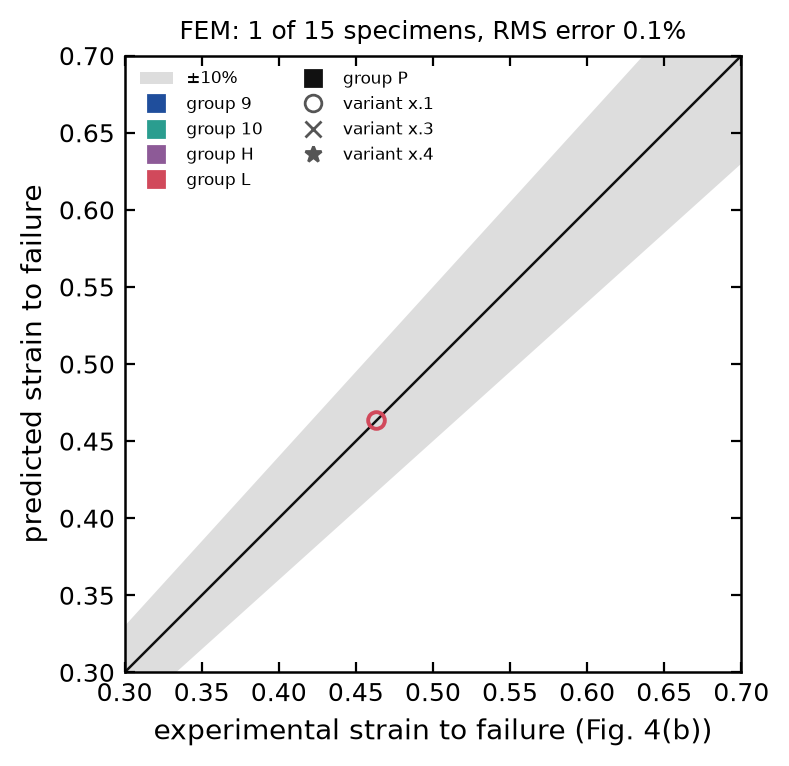
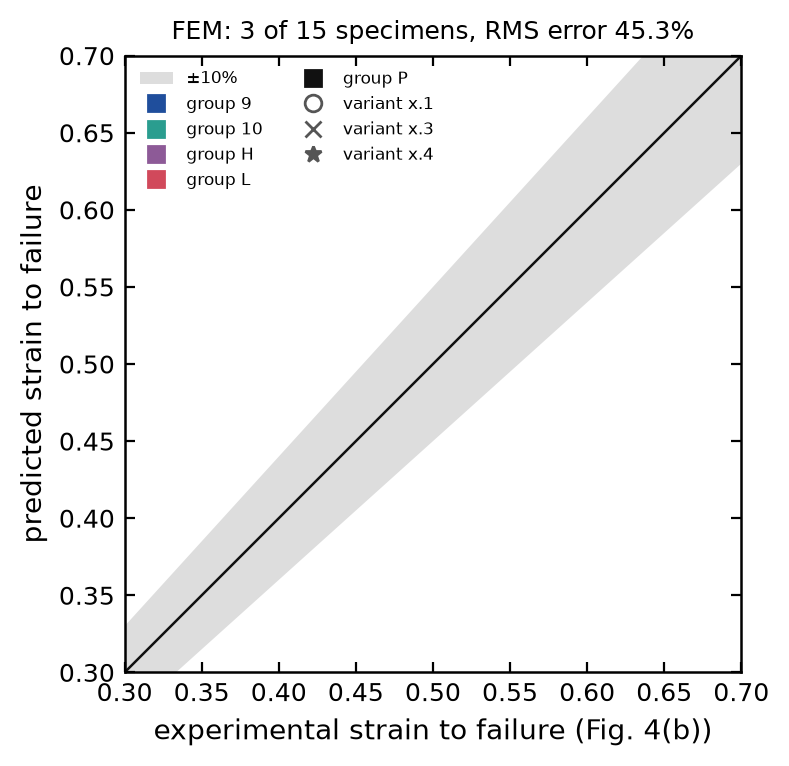
Ni last stage: group 10 FEM complete (0.771-0.779 vs 0.528-0.540; inclined cracks at 0.38-0.46); parity and location figures; notebook, ledger

Changed region(s): [[0.2129, 0.03, 0.8821, 0.0601], [0.4563, 0.5405, 0.4867, 0.5705]]

diff --git a/docs/run_ledger.md b/docs/run_ledger.md
@@ -101,7 +101,7 @@ and what it returned in one line.
 | ni-cal-h020-gn2-k1-cgroup | 2026-10-18 13:00-17:14 | `results/ni_study/cal_h020/gn2/k1_p/specimen.i` | `ni_specimen.py run`, `curve` (cgroup cap) | be71f84 / PINNACLE 9f31bb0 | rocm / 2 threads, 16 GB resident cap | 4.2 h | cutback budget spent at step 231 (43.0% gauge); BE fallback at step 234 -> 16 GB in 17 s -> oom-kill (exit -9). Curve to 43.0% kept (author); GN summary unchanged | k_m OAT curve | 12 §5.1 |
 | ni-mesh-L1-h020set | 2026-10-18 08:35 - 2026-10-19 04:14 (h010 curve end) | `decks/ni/cp/h020/mesh_L1.i` (h040, h010, h020z2; h020 = calibrated run) | `ni_study.py` | study / PINNACLE 9f31bb0 | rocm / 2 + 8 + 4 threads, address-space caps 16 / 24 / 16 GB | h040 done; h010 ~1 day | h040 finished. h020z2 VOID: hit the cap at step 36 in tangent assembly, every retry failed (kept in `h020z2/failed_ascap/`). h010 curve to 47.1% gauge (budget spent at step 243, 23 h, 11 GB resident; process left running for its field snapshots). Results docs/12 §5.2 | docs/12 §5, §5.1 | 12 §5 |
 | ni-mesh-L1-h020z2-cgroup | 2026-10-18 13:00-21:17 | `results/ni_study/mesh_study/L1_h020set/h020z2/specimen.i` | `ni_specimen.py run`, `curve` (cgroup cap) | be71f84 / PINNACLE 9f31bb0 | rocm / 4 threads, 16 GB resident cap | 8.3 h | cutback budget spent at step 226 (44.0% gauge, 238 converged steps); BE fallback -> oom-kill (exit -9). Curve to 44.0% | two-layer h020 of the mesh study | 12 §5.1 |
-| ni-final-fem-15 | 2026-10-26 10:05 - (running; first launch 09:05 at the 30% path killed at 10:00) | `decks/ni/final/fem_15_h020.i` (base `fem_base_h020.i`: carried set, newton_tol 0.05 N, rel 1e-6, grip strain 40% in 400 steps; 15 specimens) | `ni_study.py prepare, run` -> `ni_specimen.py run` | 31431b4 / PINNACLE 9a706ae | rocm / 6 x 2 threads, 16 GB cap each | - | - | FEM route of the last stage (author's go-ahead 2026-10-26) | 12 §8 |
+| ni-final-fem-15 | 2026-10-26 10:05 - (running; group 10 done 2026-10-27: 10.1 0.779 / 24 h, 10.3 0.771 / 14.8 h, 10.4 0.773 / 31 h; first launch 09:05 at the 30% path killed at 10:00) | `decks/ni/final/fem_15_h020.i` (base `fem_base_h020.i`: carried set, newton_tol 0.05 N, rel 1e-6, grip strain 40% in 400 steps; 15 specimens) | `ni_study.py prepare, run` -> `ni_specimen.py run` | 31431b4 / PINNACLE 9a706ae | rocm / 6 x 2 threads, 16 GB cap each | - | - | FEM route of the last stage (author's go-ahead 2026-10-26) | 12 §8 |
 | ni-final-tol50-test | 2026-10-26 03:30-09:04 | `results/ni_study/final/tol50/s01/specimen.i` (S01 with newton_tol 5e-2 N, rel 1e-6) | `ni_specimen.py deck run curve fracture` | f218f2e / PINNACLE 9a706ae | rocm / 2 threads | 5.6 h | full path (300 steps) with 4 cutbacks, 5,886 Newton iterations; no failure by 60.2% gauge strain, max d 0 (soft orientation: 188 MPa at 60%, plastic work below W_c): 0.05 N adopted for every route; the path is too short for soft specimens | second tolerance test: 0.05 N (5e-4 of the reaction) against the Newton floor of S01 | 12 §8.1 |
 | ni-final-tol5-test | 2026-10-25 22:20 - 2026-10-26 09:00 (9.1 killed at load factor 0.58, 72 cutbacks; S01 ended 03:11) | `results/ni_study/final/tol5/{9.1,s01}/specimen.i` (the 9.1 and S01 decks with newton_tol 5e-3, newton_rel_tol 1e-6) | `ni_specimen.py deck run curve fracture` | 3d06ed9 / PINNACLE 9a706ae | rocm / 2 x 2 threads | S01 5.3 h | S01: ended at 37.7% (1e-3: 36.6%), max d 0, Newton floor 5e-3 to 2e-2 N after ten halvings (dt 2e-5 s); 9.1 at 5e-3: reactions identical to the 1e-3 run to 1e-7, 6 cutbacks by load factor 0.48 against 73 | Newton tolerance test: does 5e-3 clear the convergence floor of orientation 9 and the S01 stall, and change the curve? | 12 §8.1 |
 | ni-final-restart-exp | 2026-10-25 21:28-22:15 | `results/ni_study/final/fem/exp_9.1_tol{2e-3,5e-3}/pfd.i` (restart of 9.1 from step 160) | `pinnacle run` | PINNACLE 9a706ae | rocm / 2 x 2 threads | 47 min, killed | VOID: no step taken; point 797's backward-Euler update failed at the same residual on every evaluation after the restart (6.5 min per fallback) | restart trap, FINDINGS 2026-10-25 | 12 §8.1 |

diff --git a/docs/12_ni_study.md b/docs/12_ni_study.md
@@ -910,3 +910,16 @@ transfers to a late failure on the softer orientations. 10.1 (max d 0.90 at 0.76
 damage at 0.38-0.47. This is a result of the benchmark (the carried model's transfer across
 orientations), reported as such; the campaign continues unchanged.
 
+Group 10 complete (FEM; 2026-10-27 16:34):
+
+| specimen | failure (FEM) | experiment | error | location (FEM / exp) | flank | peak (MPa) at strain | wall | steps / Newton |
+|---|---|---|---|---|---|---|---|---|
+| 10.1 | 0.779 (separation) | 0.540 | +44% | 0.38 / 0.20 | 64 deg | 183.8 at 0.752 | 24.0 h | 351 / 9,595 |
+| 10.3 | 0.771 (separation) | 0.528 | +46% | 0.46 / 0.30 | 56 deg | 191.5 at 0.759 | 14.8 h | 343 / 7,502 |
+| 10.4 | 0.773 (separation) | 0.530 | +46% | 0.41 / 0.25 | 68 deg | 171.8 at 0.753 | 31.2 h | 331 / 11,059 |
+
+The three thickness variants fail within 0.008 of each other (the experiment: within 0.012), all
+44-46% late, with the crack 0.1-0.2 of the gage further along than the experiment's and inclined
+where the experiment necked. Group 9 (9.1 / 9.3 / 9.4 at load factor 0.49 / 0.49 / 0.41 after 32 h,
+150-200 cutbacks) and group H (h.1 0.44, h.3 0.33, h.4 started) run on.
+
